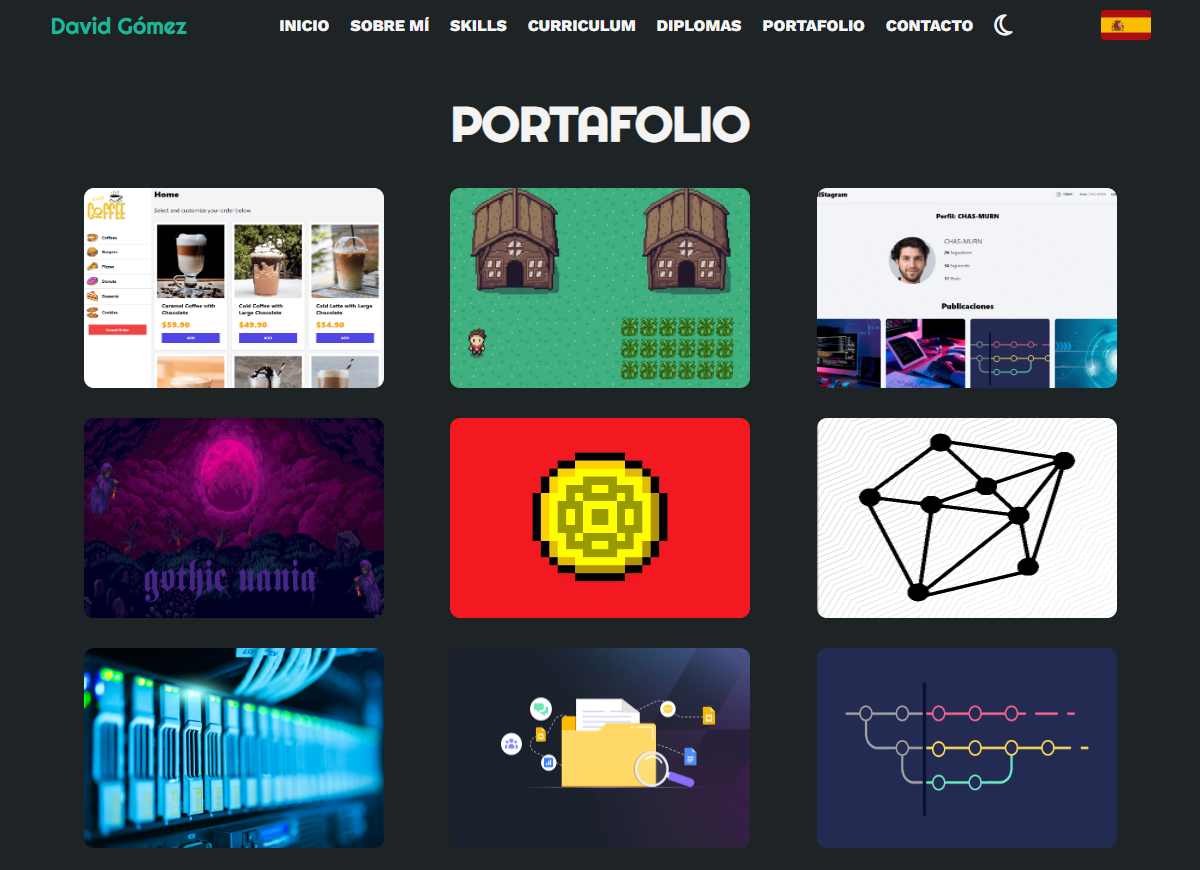
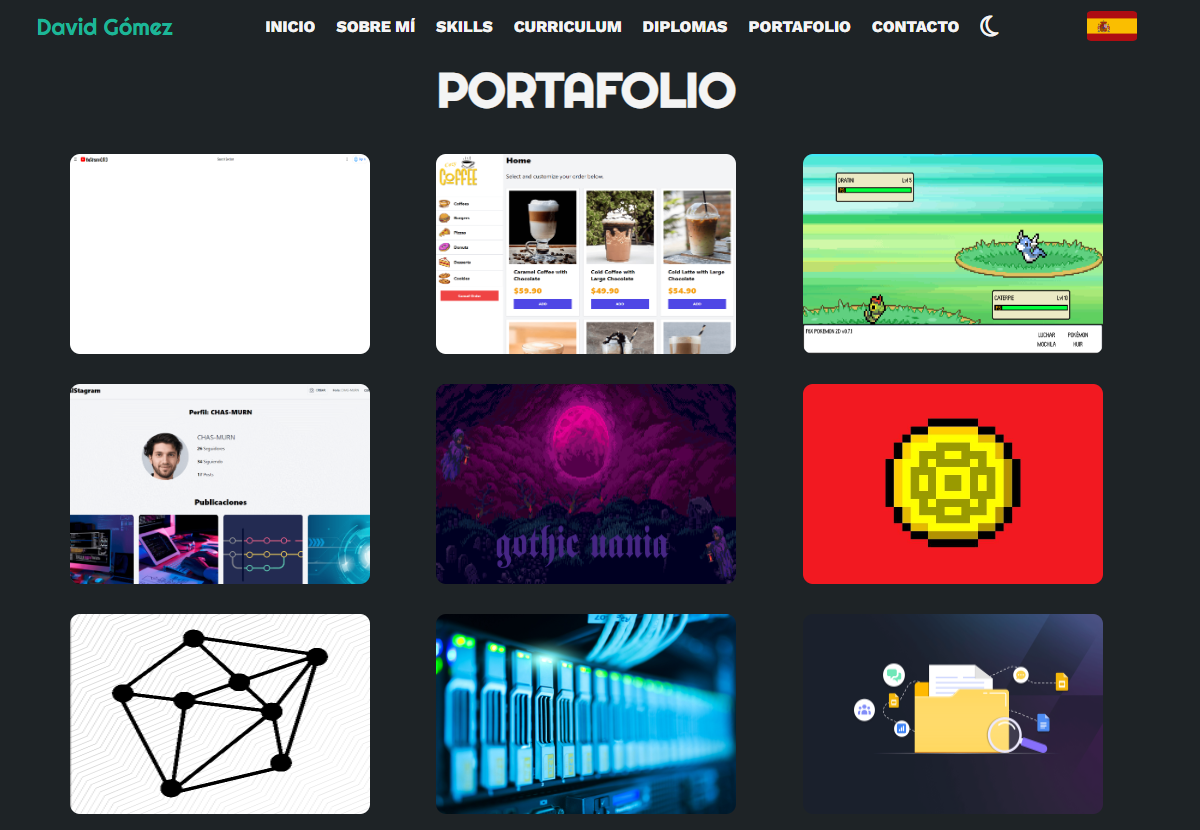
PORTFOLIO 1.2.1
Update Projects
Update Thumbnail.png

diff --git a/scripts/main.js b/scripts/main.js
@@ -7,7 +7,7 @@ document.addEventListener('DOMContentLoaded', function () {
     const copyrightElement = document.getElementById("copyright");
     const copyrightText = "COPYRIGHT 2024";
     const portfolioVersionElement = document.getElementById("portfolio-version");
-    const portfolioVersionNumber = "v1.2.0"
+    const portfolioVersionNumber = "v1.2.1"
     const portfolioVersionText = "PORTFOLIO " + portfolioVersionNumber;
     const backToTopButton = document.querySelector("#back-to-top-button");
 

diff --git a/README.md b/README.md
@@ -10,7 +10,7 @@
 
 - **STACK :**
 
-  - **Portfolio** : `1.2.0`
+  - **Portfolio** : `1.2.1`
 
 ---
 
